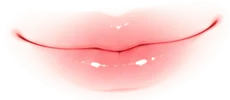
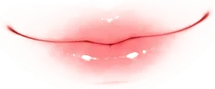
Hộp mù 20/10: xóa viền trắng quanh tóc, môi nhỏ lại và viền hòa màu da, mũ đội vừa đầu (xoay thẳng, hạ xuống)
Claude-Session: https://claude.ai/code/session_013Ek66XSGhjpwjPLoyRwaLz

diff --git a/index.html b/index.html
@@ -1129,7 +1129,7 @@ function drawBust(g,x,y,r,L,o={}){
   // 💐 đồ vẽ tay (hộp mù 20/10): khuôn mặt chuyển sang nét mềm cho hợp, mắt/môi mặc định cũng là bản vẽ tay
   const PNT=k=>k&&!/\/p_/.test(Array.isArray(k)?k[0]:k);
   const soft=!!(PNT(L.wH)||PNT(L.wE)||PNT(L.wM)||PNT(L.wB)||PNT(L.wHat));
-  if(soft){ L={...L}; if(!L.wE&&!L.hmE) L.wE=['w20/e5',1.55,0.22,0]; if(!L.wM&&!L.hmM) L.wM=['w20/l3',0.55,0.63,0]; }
+  if(soft){ L={...L}; if(!L.wE&&!L.hmE) L.wE=['w20/e5',1.55,0.22,0]; if(!L.wM&&!L.hmM) L.wM=['w20/l3',0.36,0.64,0]; }
   const lw=Math.max(1.4,r*0.075), mood=o.mood||L.mood||'normal';
   const isF=L.f!=null?L.f:(['long','bob','bun','pony','pig'].includes(L.hs)||L.hat==='maid'||!!L.bow);
   const maid=L.outfit==='maid';
@@ -1199,7 +1199,7 @@ function drawBust(g,x,y,r,L,o={}){
   }
   if(L.hat) drawHat(g,x,y,r,L.hat,lw,L.hair);
   if(L.hmH){ const [k,ax,ay,wu,wr,ty]=L.hmH, im=hmI(k); if(im){ const u=r*wr/wu, W=im.naturalWidth/im.naturalWidth*120*u; g.drawImage(im,x-ax*u,y+ty*r-ay*u,W,W*im.naturalHeight/im.naturalWidth); } }
-  if(L.wHat){ const [k,wr,ox,top]=L.wHat, im=hmI(k); if(im){ const W=r*wr; g.drawImage(im,x+ox*r-W/2,y+top*r,W,W*im.naturalHeight/im.naturalWidth); } }
+  if(L.wHat){ const [k,wr,ox,top,rot=0]=L.wHat, im=hmI(k); if(im){ const W=r*wr, H=W*im.naturalHeight/im.naturalWidth; g.save(); g.translate(x+ox*r,y+top*r+H/2); g.rotate(rot); g.drawImage(im,-W/2,-H/2,W,H); g.restore(); } }
   const wPart=(P,def)=>{ if(!P) return false; const im=hmI(P[0]); if(!im) return def; const W=r*P[1], H=W*im.naturalHeight/im.naturalWidth; g.drawImage(im,x+(P[3]||0)*r-W/2,y+P[2]*r-H/2,W,H); return true; };
   if(L.bow){ g.fillStyle=L.bow; for(const s of [-1,1]){ g.beginPath(); g.moveTo(x-r*0.55,y-r*0.78); g.lineTo(x-r*0.55+s*r*0.36,y-r*0.95); g.lineTo(x-r*0.55+s*r*0.36,y-r*0.6); g.closePath(); g.fill(); g.stroke(); } ell(g,x-r*0.55,y-r*0.78,r*0.08,r*0.08); g.fill(); g.stroke(); }
   // mắt anime
@@ -2748,21 +2748,21 @@ const WARDROBE=[
   {id:'w2_e4',slot:'eyes',name:'Mắt xanh sao đêm',img:'w20/e4.webp',price:0,ev:'w20',wE:['w20/e4',1.55,0.22,0]},
   {id:'w2_e5',slot:'eyes',name:'Mắt hổ phách',img:'w20/e5.webp',price:0,ev:'w20',wE:['w20/e5',1.55,0.22,0]},
   {id:'w2_e6',slot:'eyes',name:'Mắt lục bảo',img:'w20/e6.webp',price:0,ev:'w20',wE:['w20/e6',1.55,0.22,0]},
-  {id:'w2_l1',slot:'mouth',name:'Môi hôn gió tim',img:'w20/l1.webp',price:0,ev:'w20',wM:['w20/l1',0.8,0.63,0]},
-  {id:'w2_l2',slot:'mouth',name:'Môi hé cười',img:'w20/l2.webp',price:0,ev:'w20',wM:['w20/l2',0.8,0.63,0]},
-  {id:'w2_l3',slot:'mouth',name:'Môi mím xinh',img:'w20/l3.webp',price:0,ev:'w20',wM:['w20/l3',0.8,0.63,0]},
-  {id:'w2_l4',slot:'mouth',name:'Môi chúm chím',img:'w20/l4.webp',price:0,ev:'w20',wM:['w20/l4',0.8,0.63,0]},
-  {id:'w2_l5',slot:'mouth',name:'Môi bóng mọng',img:'w20/l5.webp',price:0,ev:'w20',wM:['w20/l5',0.8,0.63,0]},
+  {id:'w2_l1',slot:'mouth',name:'Môi hôn gió tim',img:'w20/l1.webp',price:0,ev:'w20',wM:['w20/l1',0.42,0.64,0]},
+  {id:'w2_l2',slot:'mouth',name:'Môi hé cười',img:'w20/l2.webp',price:0,ev:'w20',wM:['w20/l2',0.42,0.64,0]},
+  {id:'w2_l3',slot:'mouth',name:'Môi mím xinh',img:'w20/l3.webp',price:0,ev:'w20',wM:['w20/l3',0.42,0.64,0]},
+  {id:'w2_l4',slot:'mouth',name:'Môi chúm chím',img:'w20/l4.webp',price:0,ev:'w20',wM:['w20/l4',0.42,0.64,0]},
+  {id:'w2_l5',slot:'mouth',name:'Môi bóng mọng',img:'w20/l5.webp',price:0,ev:'w20',wM:['w20/l5',0.42,0.64,0]},
   {id:'w2_a1',slot:'pet',name:'Thỏ Ôm Tim',img:'w20/a1.webp',price:0,ev:'w20',hmP:'w20/a1'},
   {id:'w2_a2',slot:'pet',name:'Mèo Tulip',img:'w20/a2.webp',price:0,ev:'w20',hmP:'w20/a2'},
   {id:'w2_a3',slot:'pet',name:'Gấu Trúc Nơ Hồng',img:'w20/a3.webp',price:0,ev:'w20',hmP:'w20/a3'},
   {id:'w2_a4',slot:'pet',name:'Nai Hoa Hồng',img:'w20/a4.webp',price:0,ev:'w20',hmP:'w20/a4'},
   {id:'w2_a5',slot:'pet',name:'Cú Thiên Thần',img:'w20/a5.webp',price:0,ev:'w20',hmP:'w20/a5'},
   {id:'w2_a6',slot:'hat',name:'Vòng hoa hồng chuỗi ngọc',img:'w20/a6.webp',price:0,ev:'w20',wHat:['w20/a6',2.5,0,-1.3]},
-  {id:'w2_a7',slot:'hat',name:'Mũ bèo nơ đỏ',img:'w20/a7.webp',price:0,ev:'w20',wHat:['w20/a7',2.4,-0.05,-2.0]},
+  {id:'w2_a7',slot:'hat',name:'Mũ bèo nơ đỏ',img:'w20/a7.webp',price:0,ev:'w20',wHat:['w20/a7',2.75,0.02,-1.95,0.22]},
   {id:'w2_a8',slot:'hat',name:'Nơ cài hoa hồng',img:'w20/a8.webp',price:0,ev:'w20',wHat:['w20/a8',1.25,0.62,-1.25]},
   {id:'w2_a9',slot:'hat',name:'Cánh bướm nơ',img:'w20/a9.webp',price:0,ev:'w20',wHat:['w20/a9',1.2,-0.62,-1.25]},
-  {id:'w2_a10',slot:'hat',name:'Mũ nồi nơ tim',img:'w20/a10.webp',price:0,ev:'w20',wHat:['w20/a10',2.4,0.05,-1.75]},
+  {id:'w2_a10',slot:'hat',name:'Mũ nồi nơ tim',img:'w20/a10.webp',price:0,ev:'w20',wHat:['w20/a10',2.6,0.02,-1.85,0.15]},
   {id:'w2_a11',slot:'decor',name:'Túi tim nơ đỏ',img:'w20/a11.webp',price:0,ev:'w20',decor:[],hmD:'w20/a11'},
   {id:'w2_aodaihong',slot:'outfit',name:'Áo dài hồng thêu hoa',img:'w20/s_aodaihong.webp',price:0,ev:'w20',wB:['w20/p_aodaihong',2.75,0.6]},
   {id:'w2_aodaitrang',slot:'outfit',name:'Áo dài trắng nữ sinh',img:'w20/s_aodaitrang.webp',price:0,ev:'w20',wB:['w20/p_aodaitrang',2.75,0.6]},
@@ -2770,7 +2770,7 @@ const WARDROBE=[
   {id:'w2_cardigan',slot:'outfit',name:'Cardigan len hồng',img:'w20/s_cardigan.webp',price:0,ev:'w20',wB:['w20/p_cardigan',2.75,0.6]},
   {id:'w2_aothun',slot:'outfit',name:'Áo thun "Mẹ là số 1"',img:'w20/s_aothun.webp',price:0,ev:'w20',wB:['w20/p_aothun',2.75,0.6]},
   {id:'w2_khan',slot:'acc',name:'Khăn lụa choàng cổ',img:'w20/s_khan.webp',price:0,ev:'w20',wA:['w20/p_khan',1.7,1.22,0]},
-  {id:'w2_nonla',slot:'hat',name:'Nón lá kết hoa',img:'w20/s_nonla.webp',price:0,ev:'w20',wHat:['w20/p_nonla',2.7,0,-1.98]},
+  {id:'w2_nonla',slot:'hat',name:'Nón lá kết hoa',img:'w20/s_nonla.webp',price:0,ev:'w20',wHat:['w20/p_nonla',2.9,0,-2.05,0]},
   {id:'w2_bangdo',slot:'hat',name:'Băng đô nơ lớn',img:'w20/s_bangdo.webp',price:0,ev:'w20',wHat:['w20/p_bangdo',2.1,0,-1.9]},
   {id:'w2_kephoa',slot:'hat',name:'Kẹp tóc hoa anh đào',img:'w20/s_kephoa.webp',price:0,ev:'w20',wHat:['w20/p_kephoa',2.0,0,-1.6]},
   {id:'w2_matlonglanh',slot:'eyes',name:'Mắt long lanh',img:'w20/s_matlonglanh.webp',price:0,ev:'w20',wE:['w20/p_matlonglanh',1.55,0.22,0]},
@@ -2793,7 +2793,7 @@ const WARDROBE=[
   {id:'w2_lenthung',slot:'outfit',name:'Áo len vặn thừng',img:'w20/s_lenthung.webp',price:0,ev:'w20',wB:['w20/p_lenthung',2.75,0.6]},
   {id:'w2_somicaro',slot:'outfit',name:'Sơ mi caro hồng',img:'w20/s_somicaro.webp',price:0,ev:'w20',wB:['w20/p_somicaro',2.75,0.6]},
   {id:'w2_damyem',slot:'outfit',name:'Đầm yếm jean',img:'w20/s_damyem.webp',price:0,ev:'w20',wB:['w20/p_damyem',2.75,0.6]},
-  {id:'w2_beret',slot:'hat',name:'Mũ nồi đỏ',img:'w20/s_beret.webp',price:0,ev:'w20',wHat:['w20/p_beret',2.3,0.05,-1.85]},
+  {id:'w2_beret',slot:'hat',name:'Mũ nồi đỏ',img:'w20/s_beret.webp',price:0,ev:'w20',wHat:['w20/p_beret',2.5,0.04,-1.6,0]},
   {id:'frame_rose',slot:'frame',name:'Khung "Vòng Hoa Hồng"',icon:'🌹',img:'w20/a6.webp',price:0,ev:'w20',frame:'rose'},
 
 ];
